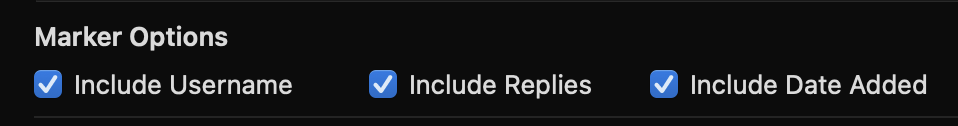
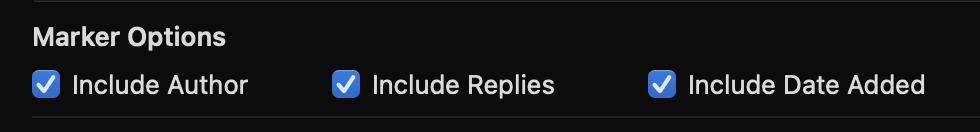
Preparing for v1.0.1

Changed region(s): [[0.333, 0.5238, 0.9687, 0.7857], [0.0303, 0.5238, 0.3027, 0.7857], [0.0303, 0.1905, 0.2422, 0.4048]]

diff --git a/docs/how-to-use.md b/docs/how-to-use.md
@@ -14,19 +14,24 @@ The first time you launch Marker Toolbox it will look like this:
 
 ---
 
-### Convert Vimeo CSV to Markers
+### Convert Vimeo CSV & Dropbox Replay JSON to Markers
 
-This feature allows you to easily import Vimeo CSV files into Markers.
+This feature allows you to easily import Vimeo CSV and Dropbox Replay JSON files as markers and titles in Final Cut Pro.
 
 You can learn more about exporting CSV files from Vimeo [here](https://vimeo.zendesk.com/hc/en-us/articles/224818367-Video-review-page-).
 
 This functionality has been built into [CommandPost](https://commandpost.io) for a while, however we've improved upon it based on user feedback.
 
-Simply drag a CSV file into the drop zone, or click the **Select CSV** button:
+You can export a Dropbox Replay JSON file by clicking the Export Comments button, then selecting JSON:
+
+![_Screenshot of Dropbox Replay_](static/dropbox-replay.png)
+
+
+Simply drag a CSV or JSON file into the drop zone, or click the **Select File** button:
 
 ![_Screenshot of Marker Toolbox_](static/vimeo-csv.png)
 
-Assuming the CSV is correct and valid, the draggable icon on the bottom of the interface will now be green:
+Assuming the CSV or JSON is correct and valid, the draggable icon on the bottom of the interface will now be green:
 
 ![_Screenshot of Marker Toolbox_](static/drag.png)
 
@@ -48,11 +53,13 @@ Back in the Workflow Extension there are three Marker Options:
 
 ![_Screenshot of Marker Toolbox_](static/marker-options.png)
 
-These settings allow you to add the Username, Replies and Date Added to the Marker name within Final Cut Pro, and the Timeline Index:
+These settings allow you to add the Author, Replies and Date Added to the Marker name within Final Cut Pro, and the Timeline Index:
 
 ![_Screenshot of Marker Toolbox_](static/marker-options-ticked.png)
 
-These settings should be applied **before** you import a CSV. If you change them, you should import your CSV again for the FCPXML to be updated.
+These settings should be applied **before** you import a CSV/JSON. If you change them, you should import your CSV/JSON again for the FCPXML to be updated.
+
+In Marker Toolbox v1.0.1, The frame rate you select is the **Settings** panel is also used for CSV/JSON files (as opposed to defaulting to 25fps).
 
 ---
 

diff --git a/docs/faq.md b/docs/faq.md
@@ -13,9 +13,3 @@ You can learn more about OpenAI's pricing [here](https://openai.com/pricing).
 Yes, you can use third party iPhone apps, such as [Timecode+](https://apps.apple.com/app/id590534084).
 
 Simply **Share as Text** in the Timecode+ App, then use the **Paste** button in Marker Toolbox to paste the text, and then **Process Comments Locally**.
-
----
-
-### Does Marker Toolbox work with Dropbox Replay?
-
-Dropbox Replay support will be added in version v1.0.1 very soon!

diff --git a/docs/README.md b/docs/README.md
@@ -1,6 +1,6 @@
 # Marker Toolbox
 
-Marker Toolbox allows you to import Vimeo CSV & Email Comments into Apple's [Final Cut Pro](https://www.apple.com/final-cut-pro/).
+Marker Toolbox allows you to import Vimeo CSV, Dropbox Replay JSON & Email Comments into Apple's [Final Cut Pro](https://www.apple.com/final-cut-pro/).
 
 > [:icon-desktop-download: **Click here to buy on the Mac App Store**](https://apps.apple.com/us/app/marker-toolbox/id6446810965)
 
